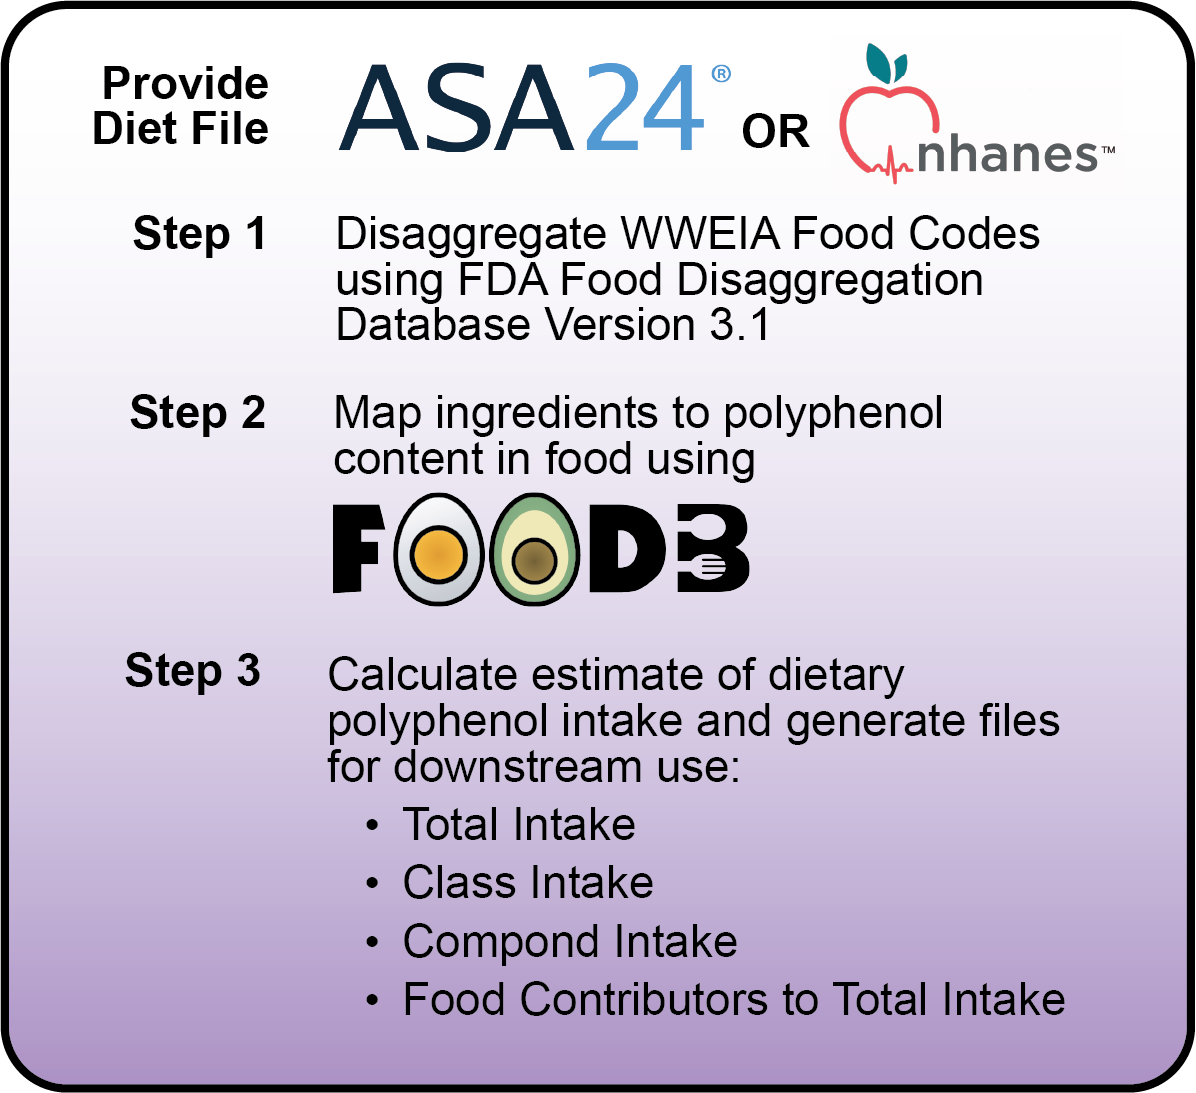
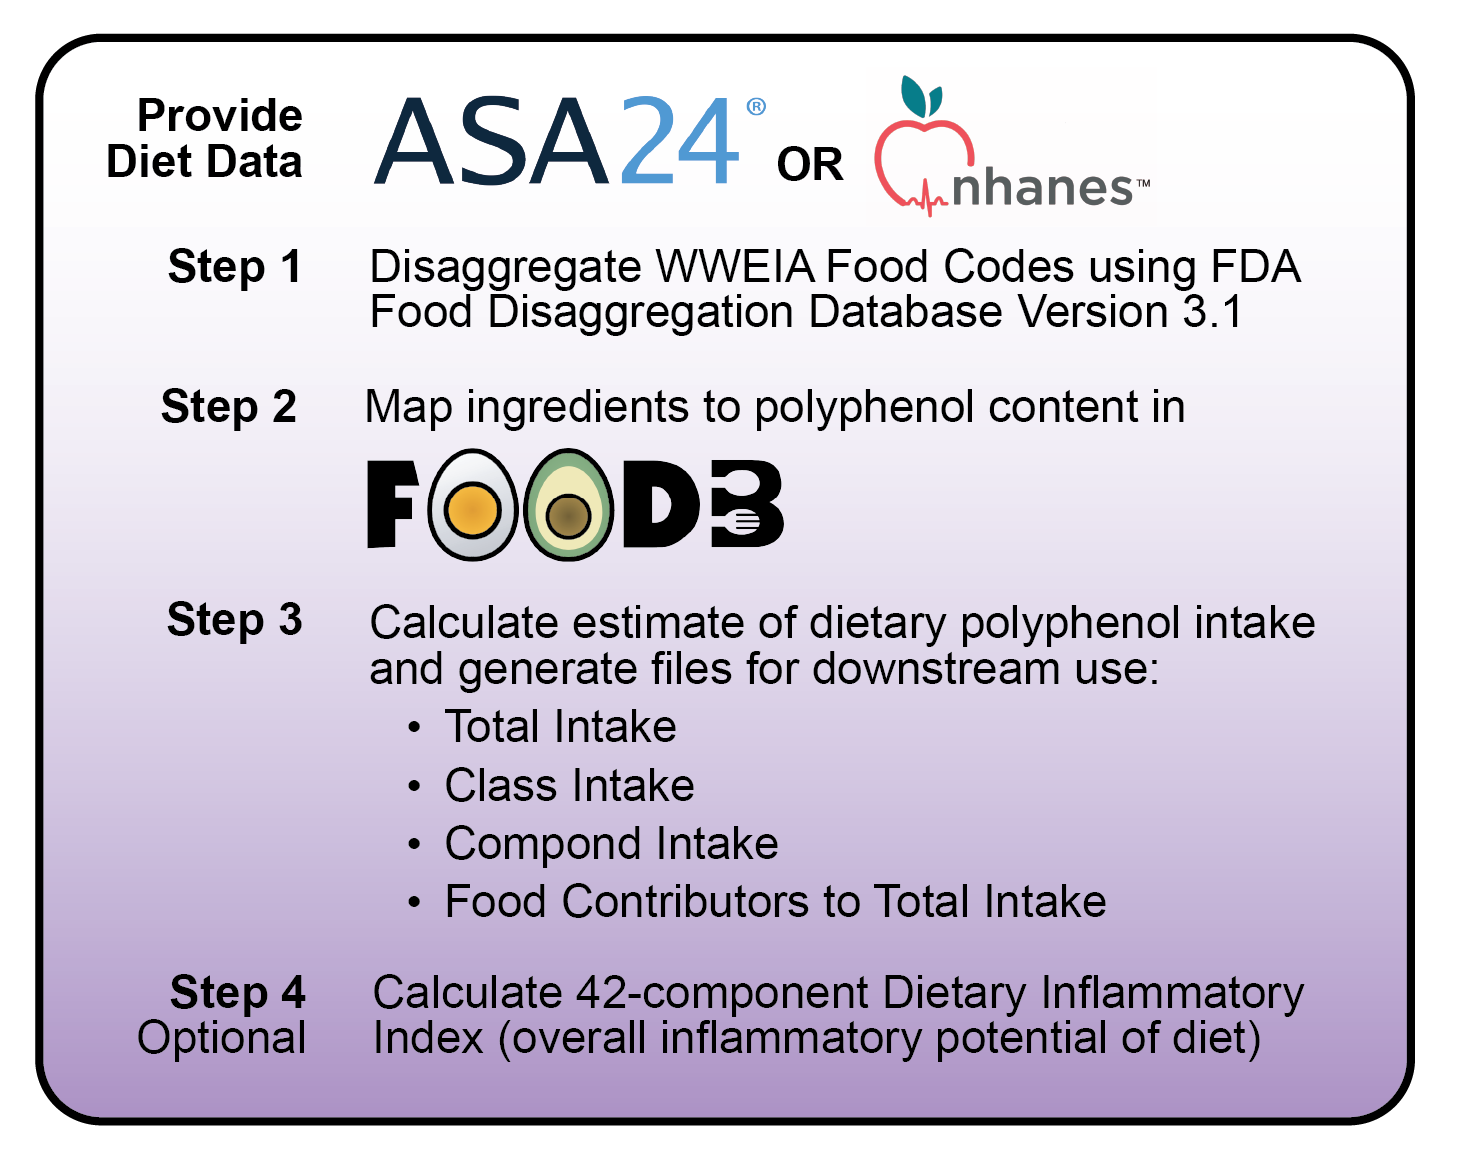
Improved documentation
Updates include:
README, new figure and start-up guide mentioned
DII range provided
Links on start-up page

diff --git a/README.md b/README.md
@@ -1,27 +1,27 @@
-# Polyphenol Intake Estimation Pipeline
+# Polyphenol Estimation Pipeline
 
-**Developed by**: Stephanie M.G. Wilson  
-**Last Updated**: November 20, 2025  
-
-## About
 This repository contains scripts to automate the estimation of dietary polyphenol intake and calculation of the dietary inflammatory index from ASA24 or NHANES diet recalls. 
 
-In brief, reported foods in ASA24 are disaggregated into their underlying ingredients using the FDA Food Disaggregation Database, mapped to their food equivalent in FooDB, and estimates polyphenol intake at various levels of resolution (total, class, compound). Outputs are provided for each resolution of polyphenol intake for users to use for their separate analyses. 
+### Releases
+- November 20, 2025 - Tutorial Draft Release
+
+## How it Works
 
 <figure>
-  <img src="workflow_images/Polyphenol_Estimation_Pipeline_Overview.png" alt="brief overview of steps in the pipeline" width="400">
+  <img src="workflow_images/Polyphenol_Estimation_Pipeline_Overview.png" alt="brief overview of steps in the pipeline" width="500">
 </figure>
 
-## Software
-- **R** - download R from [CRAN](https://cran.rstudio.com/)
-- **RStudio** - download Rstudio, the graphical interface for R, free for your operating system on [Posit](https://posit.co/download/rstudio-desktop/)
+## Get Started
+Want to estimate polyphenols in your dietary data? Please review our start-up guide [here](https://swi1.github.io/polyphenol_pipeline/). If you are new to R and RStudio, you will need to download these free programs first in order to run the pipeline:
+- **R** - available from [CRAN](https://cran.rstudio.com/)
+- **RStudio** - available from [Posit](https://posit.co/download/rstudio-desktop/)
 
 
 ## Required Files
         
 | Inputs      | Provided | About   |
 |------------ |--------- |---------|
-| ASA24 Study Data   | No     	| **Pipeline users must first download their ASA24 Items Analysis File from the ASA24 Researcher Site.**<br>Note: Current pipeline requires each participant to have at least two recalls. 	|
+| Diet Data  | No     	| ASA24 Items File, or NHANES<br>Note: Current pipeline requires each participant to have at least two recalls. 	|
 | FDA Food Disaggregation Database V 3.1   | Yes  |   FDA's Food Disaggregation Database contains Ingredients and their percentages within FNDDS food codes. |
 | FooDB food polyphenol content  | Yes      	|   Contains polyphenol content in foods. Polyphenols were determined based off structure (an aromatic ring with at least two hydroxyl groups) with 9 compounds manually added to better reflect microbial enzyme substrates.   |
 | FooDB polyphenol list   | Yes      	| List of 3072 polyphenols. File includes FooDB compound ID, compound name, SMILES, InChI key, and taxonomic class. Taxonomic class is from ClassyFire, an automated chemical taxonomic classification application based on chemical structure.  |
@@ -29,8 +29,3 @@ In brief, reported foods in ASA24 are disaggregated into their underlying ingred
 | FooDB eugenol content | Yes | Contains eugenol content in foods. |
 | FooDB polyphenol subclasses - DII | Yes | FooDB polyphenol taxonomic classes relevant to calculating the Dietary Inflammatory Index. |
 
-## Releases
-- November 20, 2025 - Tutorial Draft Release
-
-## Contact
-For questions, troubleshooting, and feedback during testing, please contact smgwilson@ucdavis.edu.

diff --git a/webpages/DII_calculation.md b/webpages/DII_calculation.md
@@ -7,13 +7,15 @@ has_children: true
 ---
 
 ## Calculating the Dietary Inflammatory Index
-The dietary inflammatory index (DII) is a 45-component index created by [Shivappa et al. (2014)](https://doi.org/10.1017/s1368980013002115) that reflects the inflammatory potential of the diet. Our script adds 14-components to the 28-component calculation detailed in [DII_ASA24.R](https://github.com/jamesjiadazhan/dietaryindex/blob/main/R/DII_ASA24.R) from the [dietaryindex](https://doi.org/10.1016/j.cdnut.2024.102755) package. In total, 42 of the 45-components can now be calculated from ASA24 and NHANES data.
+The dietary inflammatory index (DII) is a 45-component index created by [Shivappa et al. (2014)](https://doi.org/10.1017/s1368980013002115) that reflects the inflammatory potential of the diet. The theoretical range for the DII is -8.87 (strongly anti-inflammatory) to 7.98 (strongly pro-inflammatory).
+
+Our script adds 14-components to the 28-component calculation detailed in [DII_ASA24.R](https://github.com/jamesjiadazhan/dietaryindex/blob/main/R/DII_ASA24.R) from the [dietaryindex](https://doi.org/10.1016/j.cdnut.2024.102755) package. In total, 42 of the 45-components can now be quickly calculated from ASA24 and NHANES data.
   
-New Components Addeded to 28 component DII calculation:
+New Components Added to 28 component DII calculation:
 - **Compounds**: Eugenol, isoflavones, flavan-3-ols, flavones, anthocyanidins, flavonones, flavonols
 - **Foods**: Garlic, ginger, onion, pepper (spice), tea, turmeric, thyme/oregano
 
-What is still missing?
+Missing Components
 - **Compounds** - Trans Fats. Obtaining trans fats requires an additional level of mapping to Food Data Central. We are looking to incorporate this component in a future version of this pipeline.
 - **Foods** - Saffron and Rosemary. These foods do not have WWEIA food codes and are not present in the [FDA's Food Disaggregation Database](https://pub-connect.foodsafetyrisk.org/fda-fdd/). Thus, they cannot be added at this time.
 

diff --git a/index.md b/index.md
@@ -6,7 +6,7 @@ nav_order: 1
 
 # Polyphenol Estimation Pipeline
 
-This start guide shows you how to estimate polyphenol intake using the FooDB database from ASA24 or NHANES diet recall data. The guide also covers how to calculate the dietary inflammatory index[^1] on ASA24 or NHANES diet recall data. Example ASA24 data, borrowed from the DietDiveR Repository[^2], is provided for you to test. We encourage you to check out this file to better understand the input data required for the pipeline.
+This start guide shows you how to take your ASA24 or NHANES dietary data and estimate polyphenol intake using the [FooDB](https://foodb.ca/) and calculate the dietary inflammatory index[^1]. Example ASA24 data, borrowed from the DietDiveR Repository[^2], is provided for you to test. Check out [the example file here](https://github.com/SWi1/polyphenol_pipeline/blob/main/user_inputs/VVKAJ_Items.csv) to see the input structure required for the pipeline.
 
 ### 1. Download the entire repository directly [here](https://github.com/SWi1/polyphenol_pipeline/archive/refs/heads/main.zip) then unzip the folder. 
 The repository contains files and scripts used in the tutorial.
